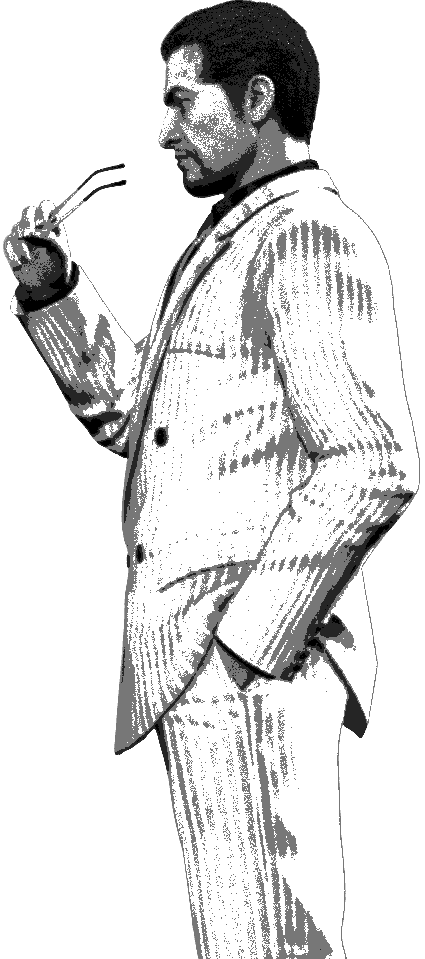
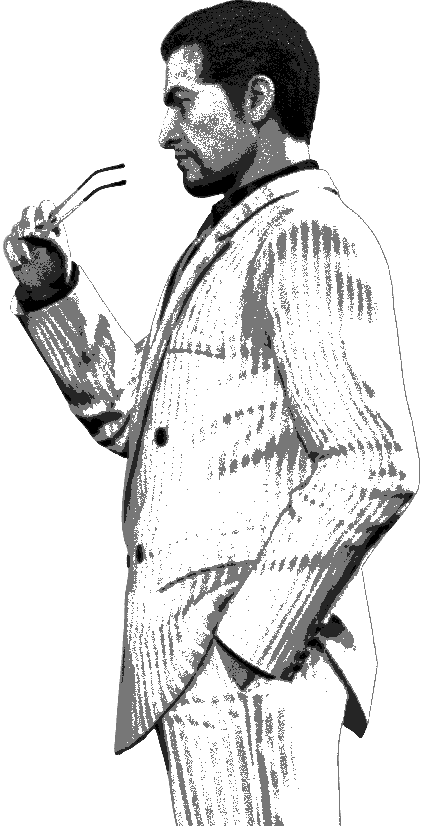
texasholdem de-fixed rates + visual corrections

diff --git a/src/app/casino/CasinoGame.tsx b/src/app/casino/CasinoGame.tsx
@@ -11,6 +11,7 @@ import {Chohan} from "@/app/casino/Chohan";
 import {handleGameAction} from "@/lib/transactions";
 import {Blackjack} from "@/app/casino/Blackjack";
 import MessageSplash from "@/components/messageSplash";
+import {JapaneseYen, Minus, Plus} from "lucide-react";
 
 const yesteryear = Yesteryear({
     weight: "400",
@@ -35,7 +36,7 @@ const CasinoGame = ({game, clubData, setMoney, dealer}: CasinoGameProps) => {
     const [value, setValue] = useState<string>("")
     const [total, setTotal] = useState<number>(0)
     const [array, setArray] = useState<number[]>([])
-    const [bet, setBet] = useState<number>(1000)
+    const [bet, setBet] = useState<number>(10000)
     const [prize, setPrize] = useState<number>(0)
     const [message, setMessage] = useState<{ text: string; id: number } | null>(null)
 
@@ -382,25 +383,43 @@ const CasinoGame = ({game, clubData, setMoney, dealer}: CasinoGameProps) => {
                                      playerActionPending={playerActionPending}
                                      setPlayerActionPending={setPlayerActionPending} setShowCard={setShowCard}
                                      clubData={clubData} setDeck={setDeck} dealer={dealer} setMoney={setMoney}
+                                     bet={bet}
                         />
                     </div>
                     {(stage === null || stage === "Showdown") && (
-                        <button
-                            onClick={async () => {
-                                await handleGameAction({type: "CASINO", status: "ACTIVE"}).then()
-                                pokerRef?.current.startGame()
-                                setMoney(prev => prev - 5000)
-                            }}
-                            className={`${yesteryear.className} absolute bottom-5 text-[40px] p-2 w-75 rounded-[10] justify-center items-center text-center hover:bg-white hover:text-black transition-all duration-200 ease-in-out transform active:scale-110 text-white`}>
-                            Let the game begin
-                        </button>
+                        <div className={"absolute bottom-10 rounded-[10] backdrop-blur-md flex flex-row justify-center items-center"}>
+                            <button
+                                className={"p-2 rounded-[10] justify-center items-center text-center hover:bg-white hover:text-black transition-all duration-200 ease-in-out transform active:scale-110 text-white"}
+                                onClick={() => {
+                                    setBet(prev => Math.max(prev - 1000, 10000))
+                                }}>
+                                <Minus size={30}/>
+                            </button>
+                            <button
+                                className={"p-2 rounded-[10] w-50 justify-center items-center text-center flex text-nowrap gap-2 text-[20px] hover:bg-white hover:text-black transition-all duration-200 ease-in-out transform active:scale-110 text-white"}
+                                onClick={async () => {
+                                    await handleGameAction({type: "CASINO", status: "ACTIVE"}).then()
+                                    pokerRef?.current.startGame()
+                                    setMoney(prev => prev - bet)
+                                }}>
+                                <JapaneseYen size={20}/>{bet}
+                            </button>
+                            <button
+                                className={"p-2 rounded-[10] justify-center items-center text-center hover:bg-white hover:text-black transition-all duration-200 ease-in-out transform active:scale-110 text-white"}
+                                onClick={() => {
+                                    setBet(prev => Math.min(prev + 1000, 50000))
+                                }}>
+                                <Plus size={30}/>
+                            </button>
+                        </div>
                     )}
                     {playerActionPending && stage && (
                         <div className={"absolute bottom-5 flex flex-row gap-10"}>
                             <button
                                 onClick={() => pokerRef?.current.turn("Raise")}
                                 className={`${yesteryear.className} text-[40px] p-2 w-40 rounded-[10] justify-center items-center text-center hover:bg-white hover:text-black transition-all duration-200 ease-in-out transform active:scale-110 text-white`}>
-                                Raise
+                                <p>Raise</p>
+                                <p>{}</p>
                             </button>
                             <button
                                 onClick={() => pokerRef?.current.turn("Call")}

diff --git a/src/app/api/casino/texasholdem/start/route.ts b/src/app/api/casino/texasholdem/start/route.ts
@@ -5,7 +5,7 @@ import {buildDeck, handleDeckShuffle} from "@/lib/casino";
 
 export async function POST(req: Request){
     const session = await auth()
-    const { clubData, dealer } = await req.json()
+    const { clubData, dealer, bet } = await req.json()
     const userId = session?.user?.id
     if (!session || !userId || !clubData || !dealer) return NextResponse.json({error: "Unauthorized"}, {status: 401})
 
@@ -29,13 +29,15 @@ export async function POST(req: Request){
     if(!userClub) return NextResponse.json({message: "No such userClub"}, {status: 404})
 
     try{
+        const forPot = Math.round((bet /2 ) / 1000) * 1000
+        const forPlayer = bet - forPot
         const freshDeck = handleDeckShuffle(buildDeck())
         const players = [
             {
                 id: 0,
                 name: clubData.host.surname,
                 hand: freshDeck.slice(0, 2),
-                chips: 5000,
+                chips: forPlayer,
                 currentBet: 0,
                 folded: false,
                 image: `${clubData.host.surname.toLowerCase()}_poker`,
@@ -46,7 +48,7 @@ export async function POST(req: Request){
                 id: 1,
                 name: "Someya",
                 hand: freshDeck.slice(2, 4),
-                chips: 5000,
+                chips: forPlayer,
                 currentBet: 0,
                 folded: false,
                 image: "someya_poker",
@@ -57,7 +59,7 @@ export async function POST(req: Request){
                 id: 2,
                 name: "Nagumo",
                 hand: freshDeck.slice(4, 6),
-                chips: 5000,
+                chips: forPlayer,
                 currentBet: 0,
                 folded: false,
                 image: "nagumo_poker",
@@ -68,7 +70,7 @@ export async function POST(req: Request){
                 id: 3,
                 name: dealer.name,
                 hand: freshDeck.slice(6, 8),
-                chips: 5000,
+                chips: forPlayer,
                 currentBet: 0,
                 folded: false,
                 image: dealer.pokerCover.replace(".png", ""),
@@ -80,12 +82,12 @@ export async function POST(req: Request){
         const deck = freshDeck.slice(8)
         const stage = "PreFlop"
         const score = null
-        const pot = 0
+        const pot = forPot * 4
 
         const round = await prisma.$transaction(async (tx) => {
             const updatedClub = await tx.userClub.update({
                 where: { id: userClub.id },
-                data: { money: { decrement: 5000 } }
+                data: { money: { decrement: bet } }
             })
 
             const newGame = await tx.gameRound.create({
@@ -93,7 +95,7 @@ export async function POST(req: Request){
                     userId,
                     gameType: "TEXASHOLDEM",
                     status: "SPINNING",
-                    totalBet: 5000,
+                    totalBet: bet,
                     gameData: {
                         players,
                         communityCards,

diff --git a/src/app/casino/TexasHoldEm.tsx b/src/app/casino/TexasHoldEm.tsx
@@ -16,6 +16,7 @@ interface TexasHoldEmProps {
     setDeck: (value: (((prevState: string[]) => string[]) | string[])) => void
     dealer: Dealer | null
     setMoney: (fn: (x: number) => number) => void
+    bet: number
 }
 
 interface TexasHoldEmRef {
@@ -34,7 +35,8 @@ export const TexasHoldEm = forwardRef<TexasHoldEmRef, TexasHoldEmProps>(
          clubData,
          setDeck,
          dealer,
-         setMoney
+         setMoney,
+         bet
      }, ref) => {
         const [communityCards, setCommunityCards] = useState<string[]>([])
         const [players, setPlayers] = useState<Player[]>([])
@@ -55,7 +57,8 @@ export const TexasHoldEm = forwardRef<TexasHoldEmRef, TexasHoldEmProps>(
                 headers: {"Content-Type": "application/json"},
                 body: JSON.stringify({
                     clubData,
-                    dealer
+                    dealer,
+                    bet
                 })
             })
             const data = await res.json()